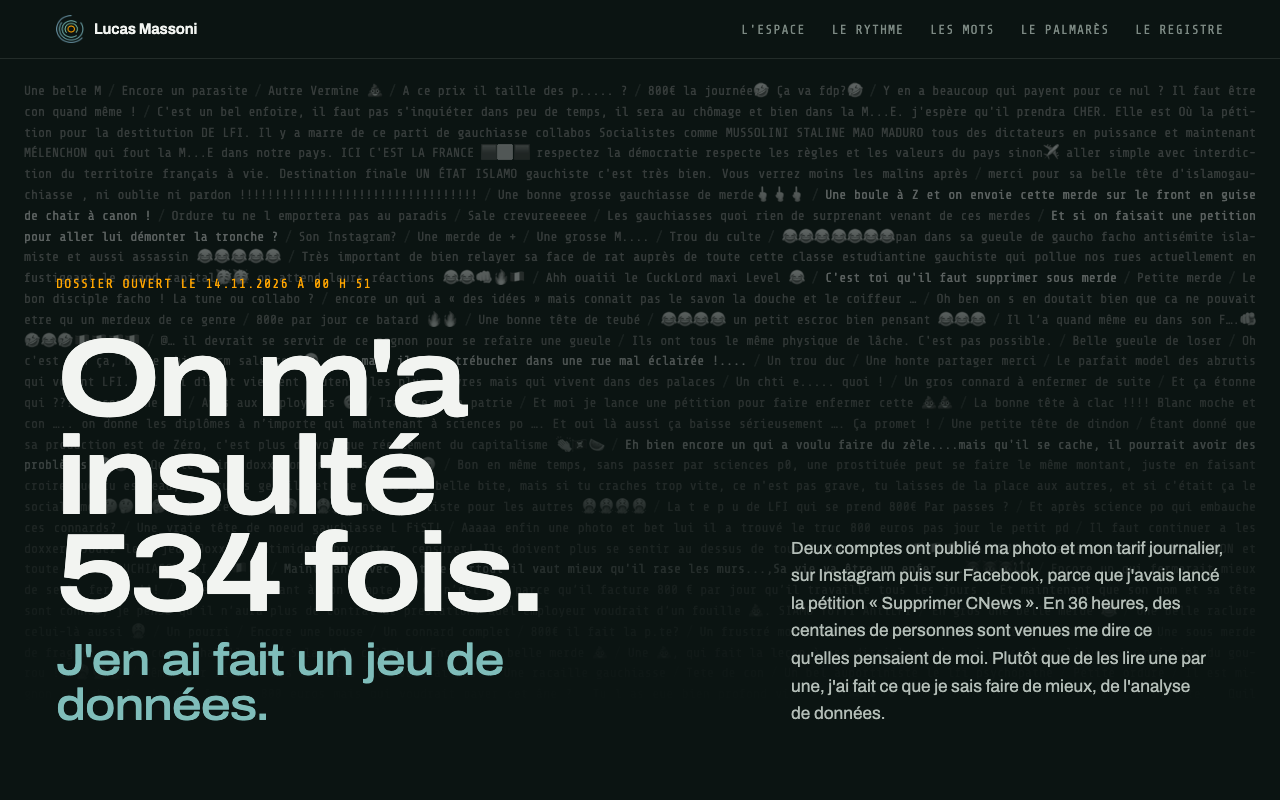
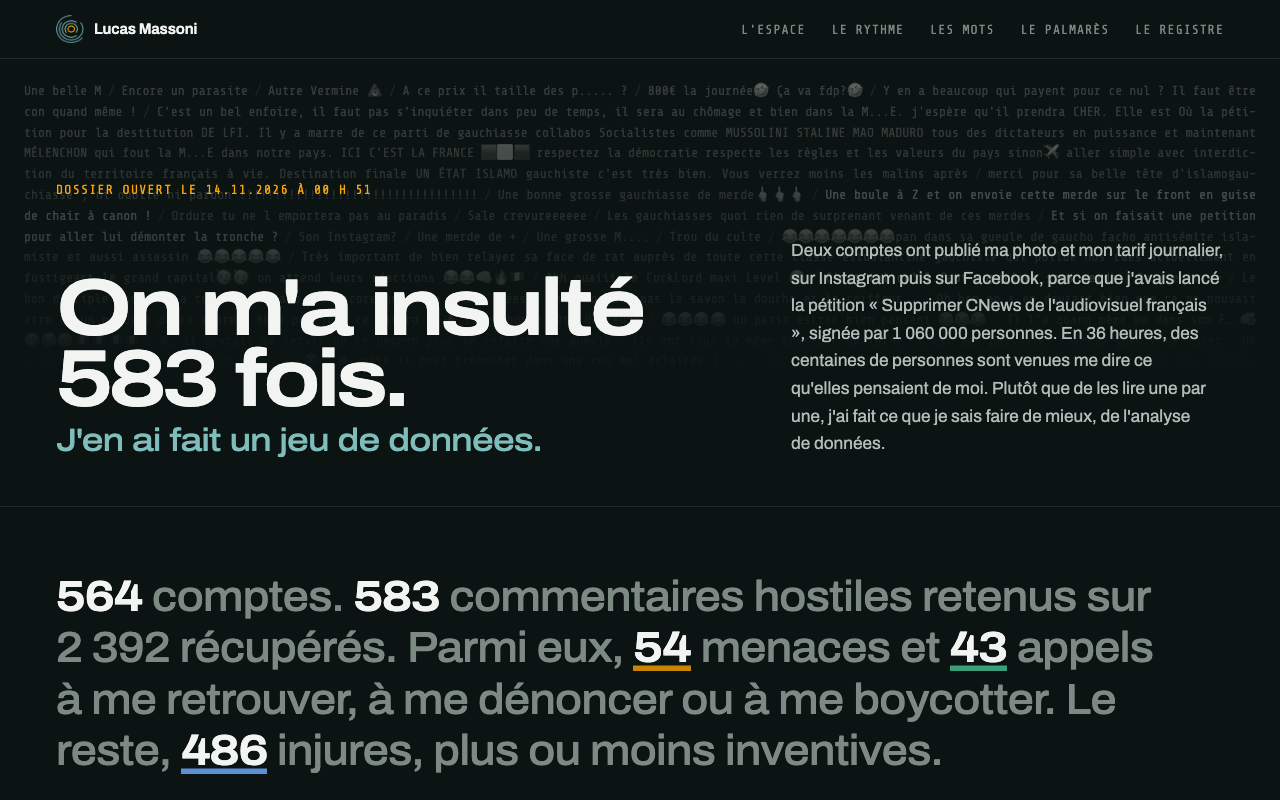
Anatomie d'un raid : image de partage dédiée

diff --git a/public/anatomie-d-un-raid/index.html b/public/anatomie-d-un-raid/index.html
@@ -11,7 +11,9 @@
 <meta property="og:title" content="Anatomie d'un raid">
 <meta property="og:description" content="On m'a insulté 583 fois. J'en ai fait un jeu de données.">
 <meta property="og:url" content="https://www.lucasmassoni.com/anatomie-d-un-raid">
-<meta property="og:image" content="https://www.lucasmassoni.com/anatomie-d-un-raid-preview.png">
+<meta property="og:image" content="https://www.lucasmassoni.com/anatomie-d-un-raid-og.png">
+<meta property="og:image:width" content="2400">
+<meta property="og:image:height" content="1254">
 <meta name="twitter:card" content="summary_large_image">
 <link rel="preconnect" href="https://fonts.googleapis.com">
 <link rel="preconnect" href="https://fonts.gstatic.com" crossorigin>
